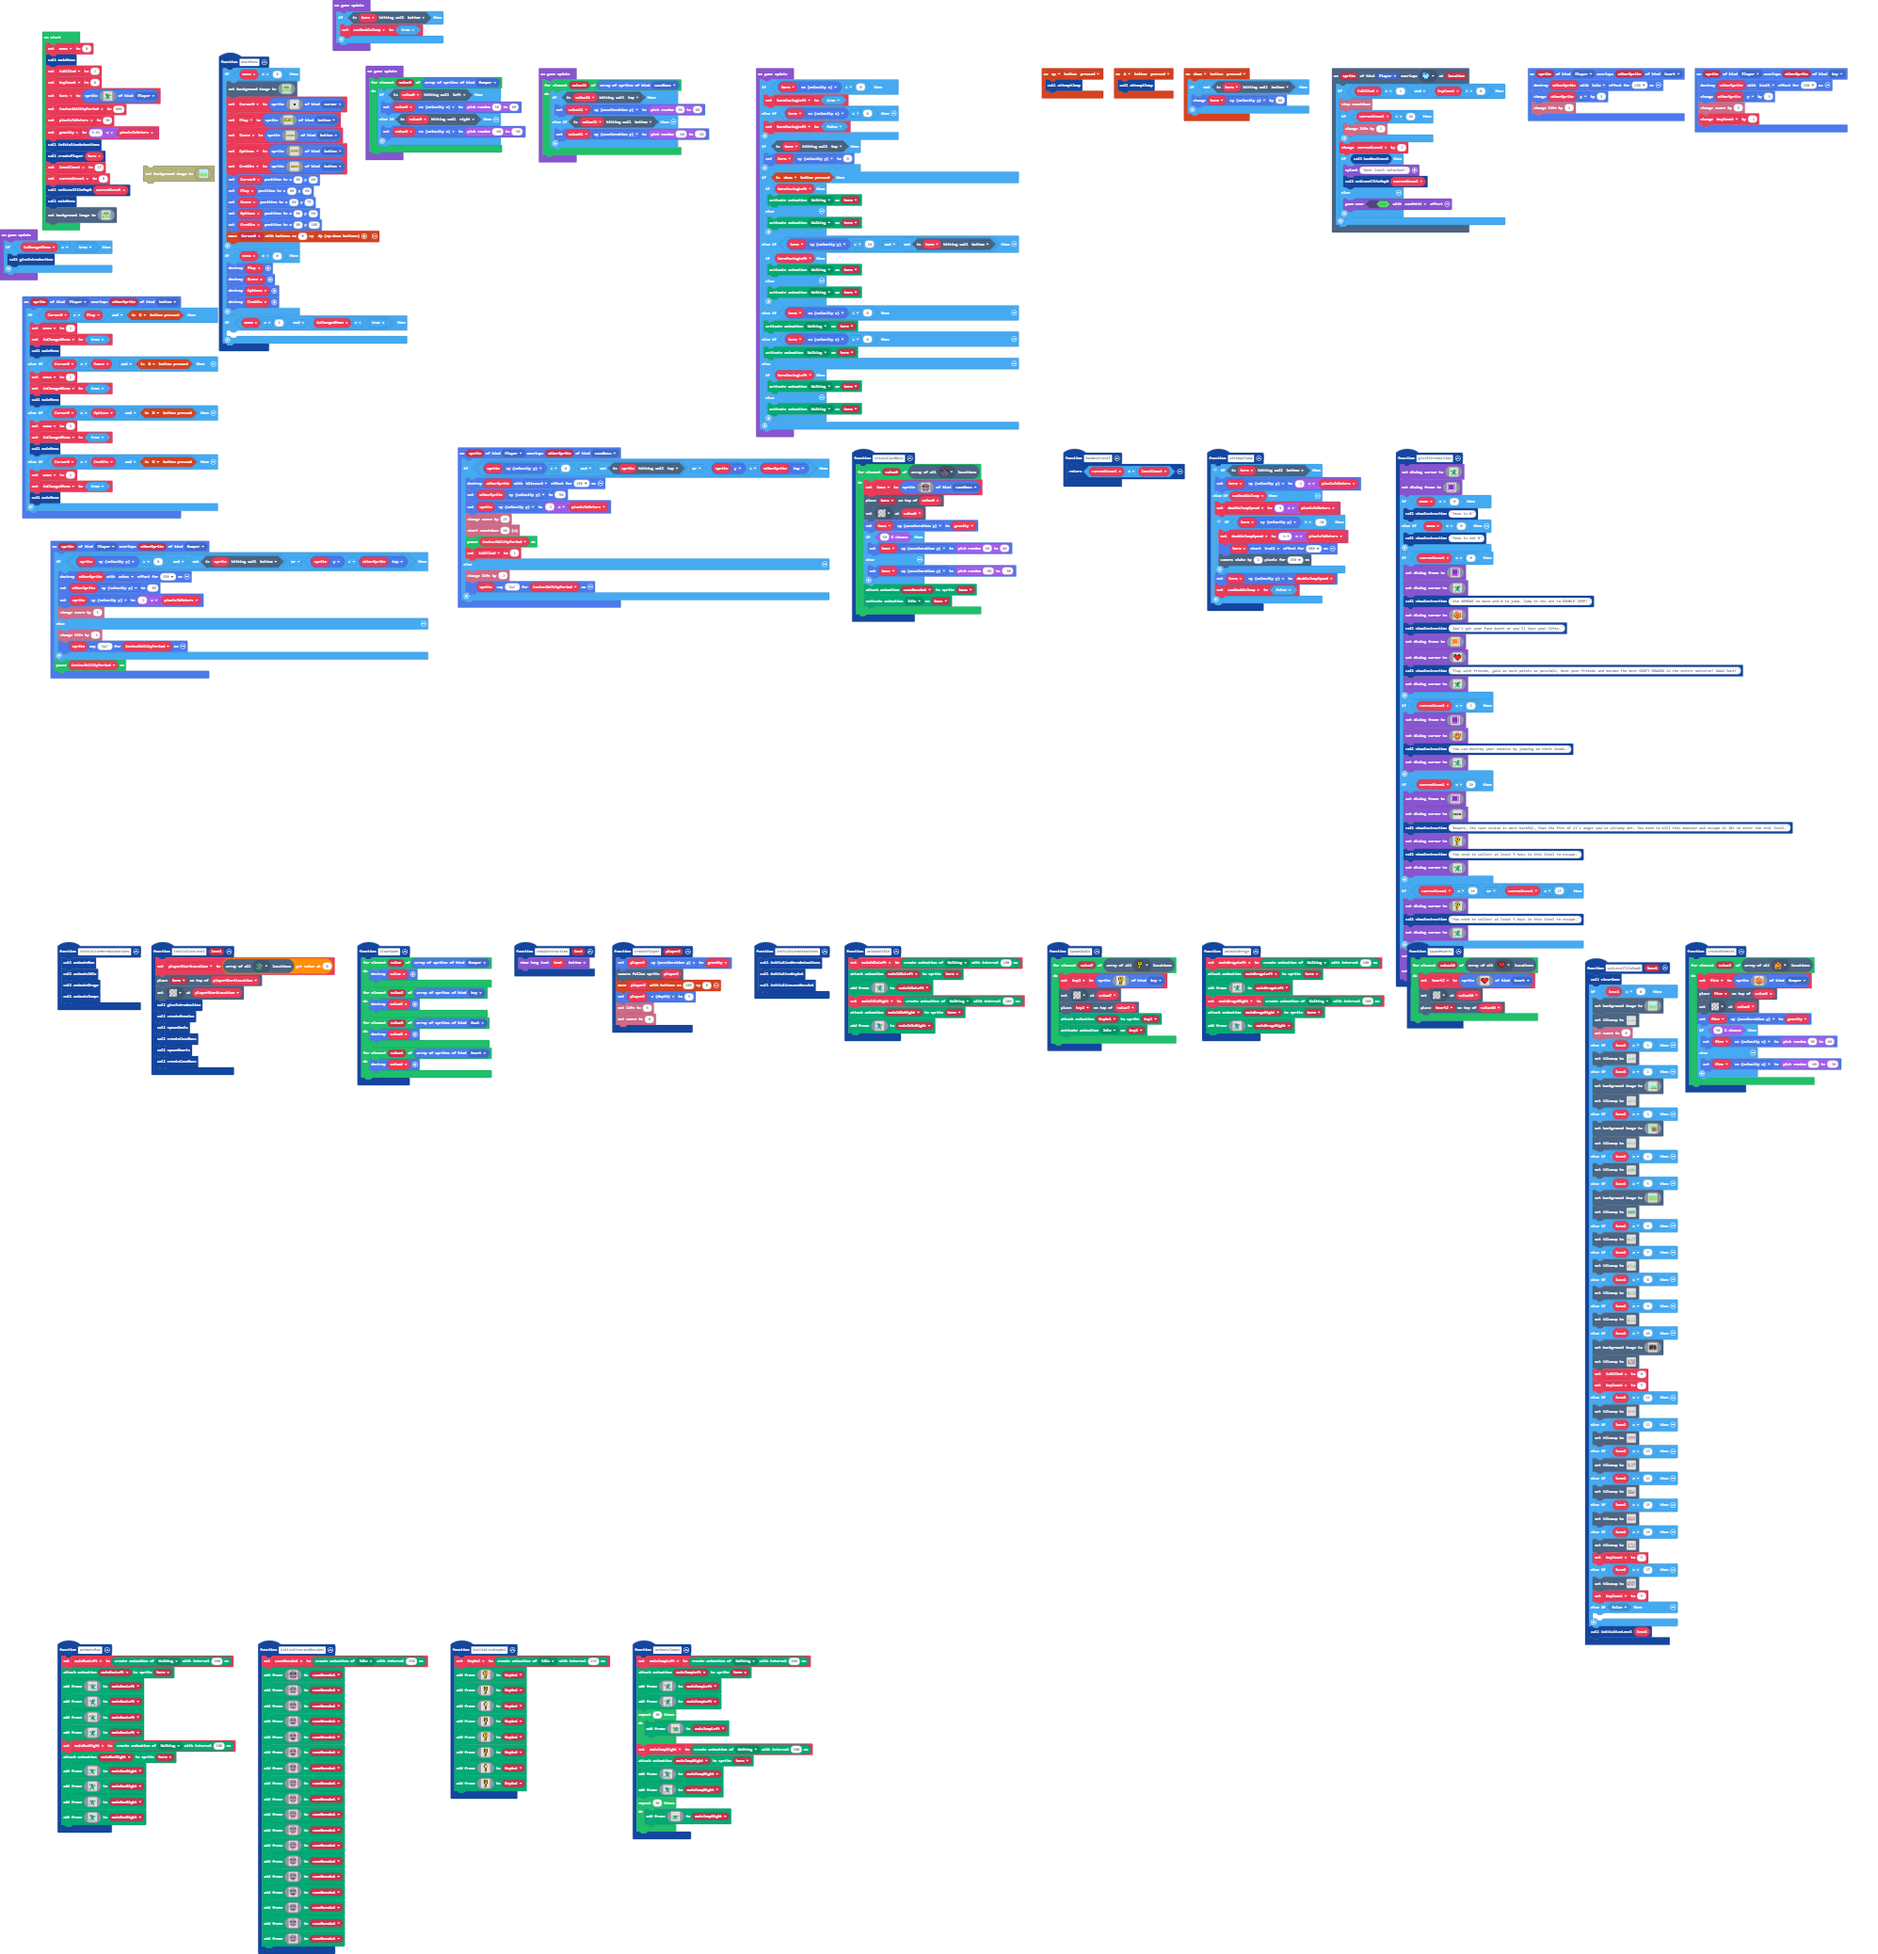
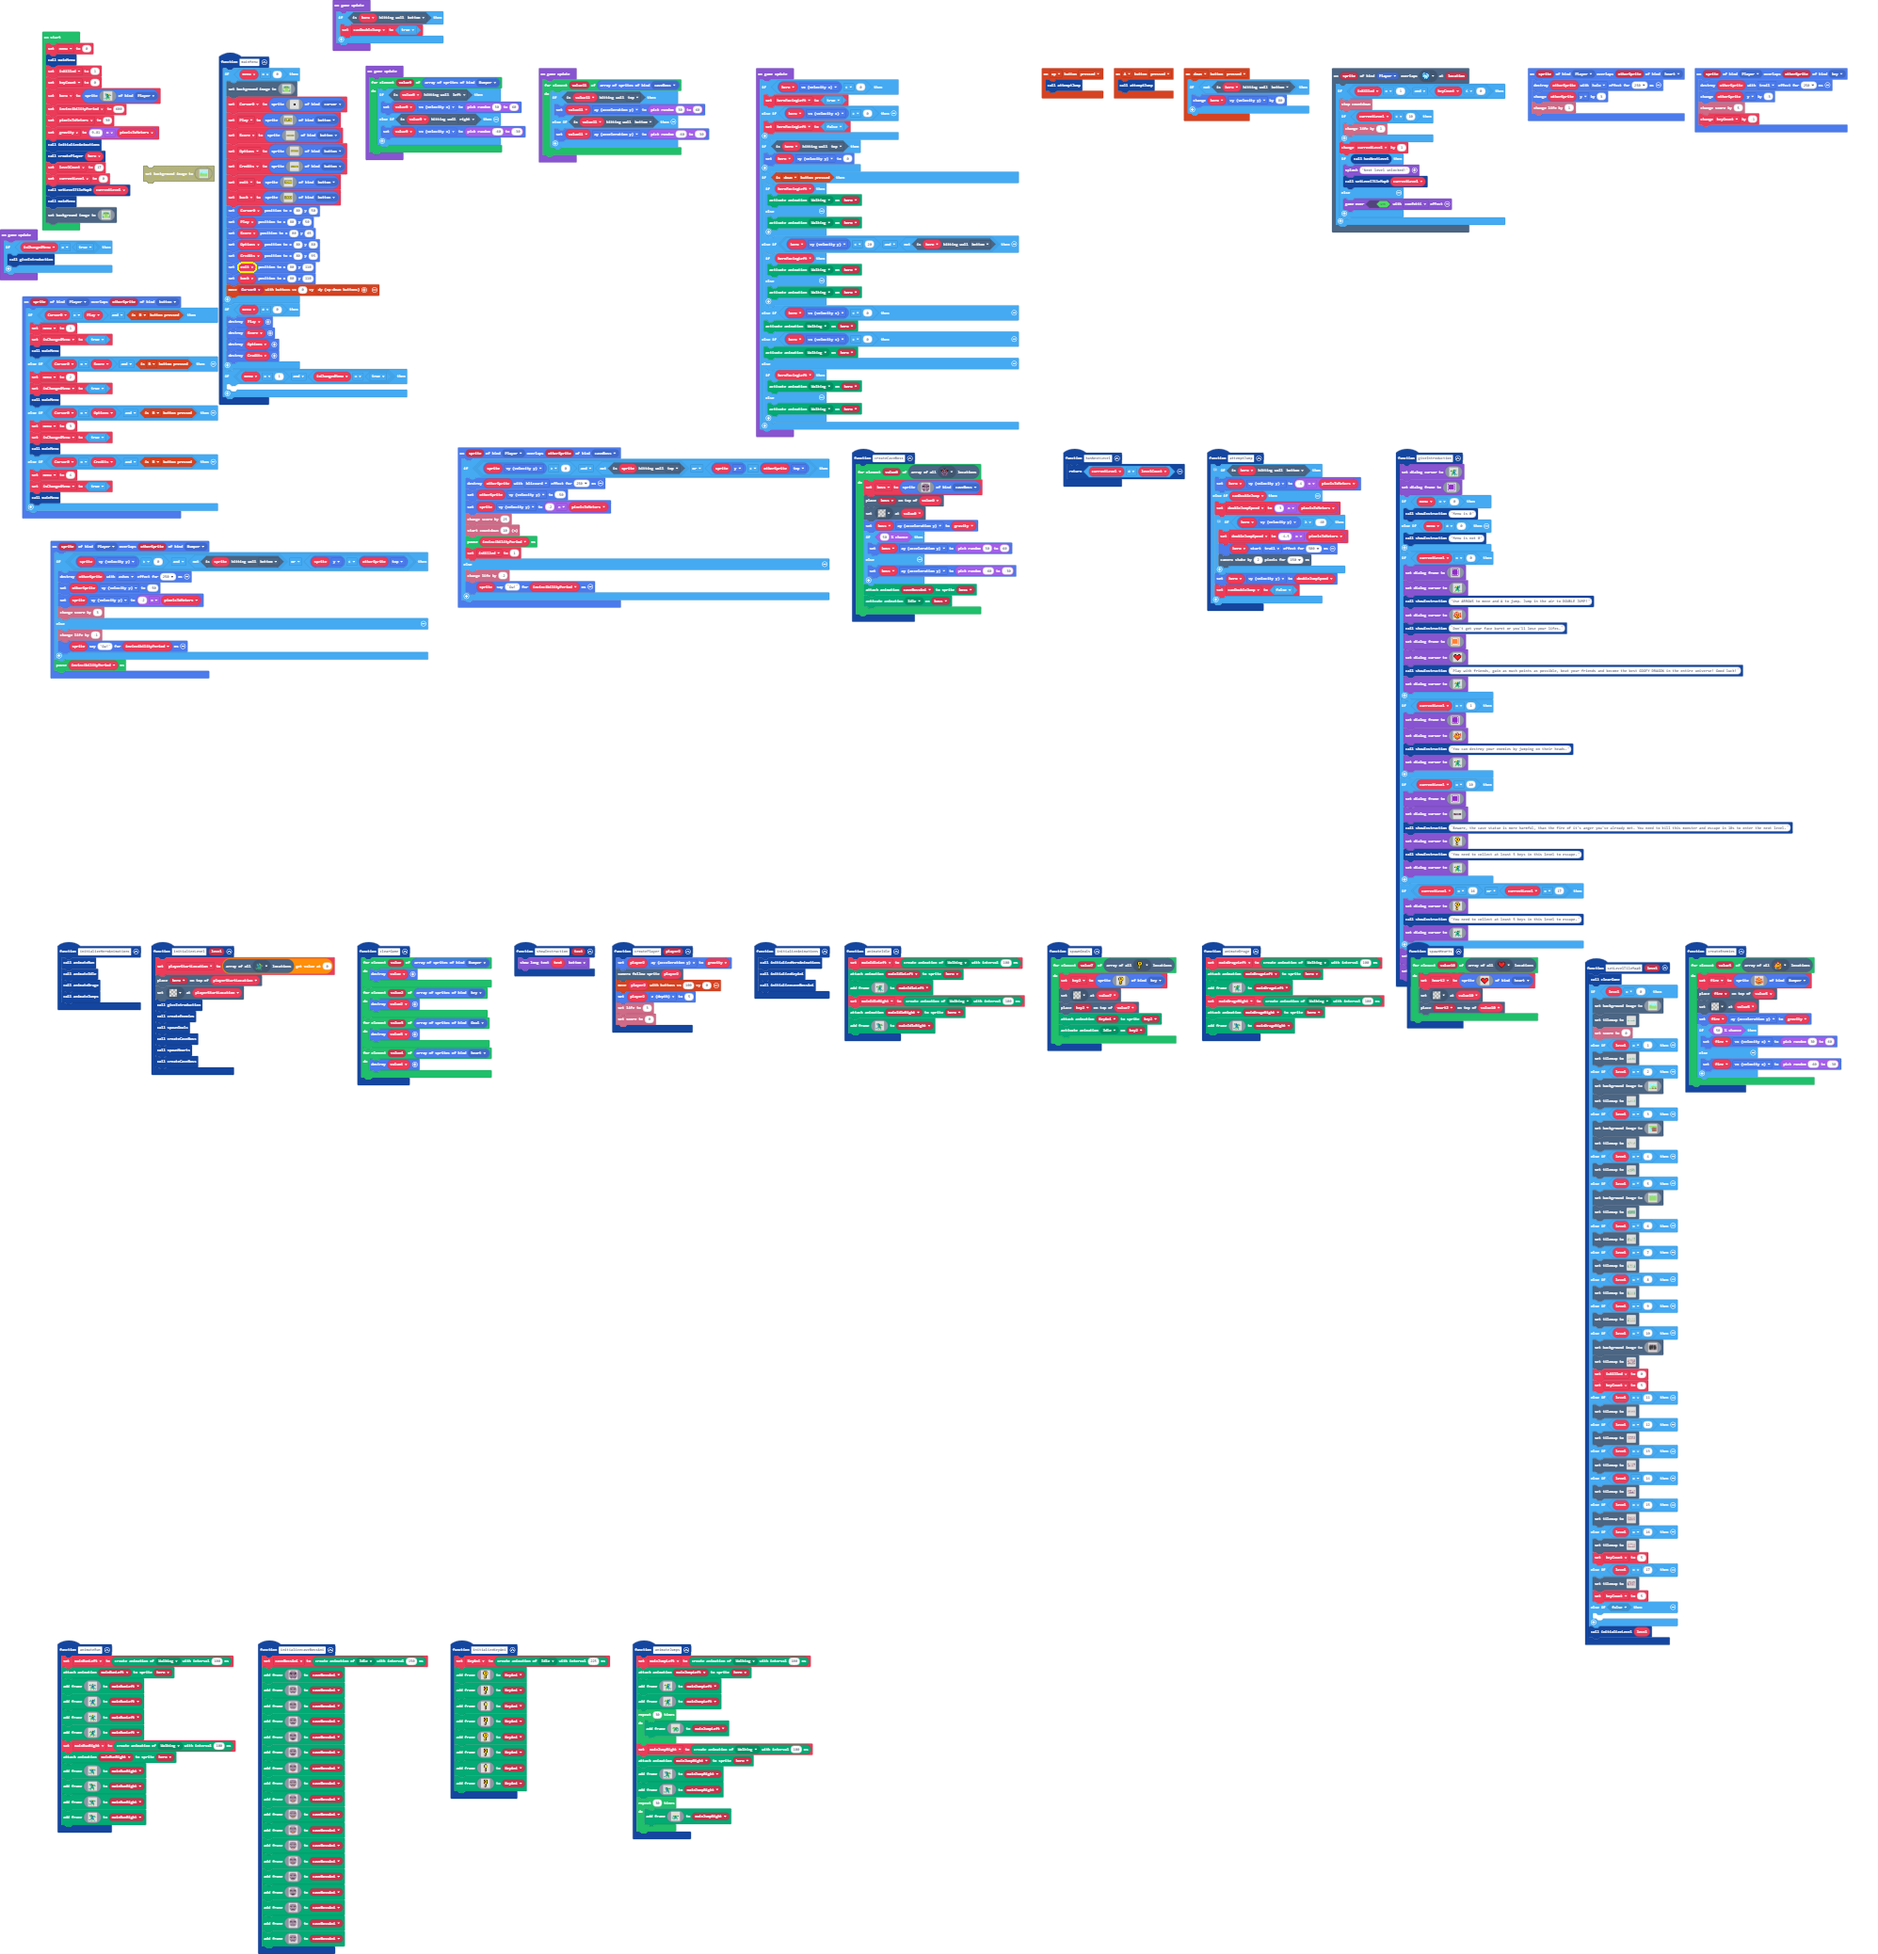
Update main.blocks, main.ts

Changed region(s): [[0.0932, 0.0925, 0.2175, 0.2158]]

diff --git a/main.ts b/main.ts
@@ -363,11 +363,39 @@ function mainMenu () {
             f5555555555555555555555555555555555555555555f
             fffffffffffffffffffffffffffffffffffffffffffff
             `, SpriteKind.button)
-        Cursor0.setPosition(80, 60)
-        Play.setPosition(80, 60)
-        Score.setPosition(80, 75)
-        Options.setPosition(80, 90)
-        Credits.setPosition(80, 105)
+        exit = sprites.create(img`
+            f f f f f f f f f f f f f f f f f f f f f f f f f f f 
+            f 5 5 5 5 5 5 5 5 5 5 5 5 5 5 5 5 5 5 5 5 5 5 5 5 5 f 
+            f 5 f f f f f 5 f 5 5 5 f 5 f f f f f 5 f f f f f 5 f 
+            f 5 f 5 5 5 5 5 f 5 5 5 f 5 5 5 f 5 5 5 5 5 f 5 5 5 f 
+            f 5 f 5 5 5 5 5 5 f 5 f 5 5 5 5 f 5 5 5 5 5 f 5 5 5 f 
+            f 5 f f f 5 5 5 5 5 f 5 5 5 5 5 f 5 5 5 5 5 f 5 5 5 f 
+            f 5 f 5 5 5 5 5 5 f 5 f 5 5 5 5 f 5 5 5 5 5 f 5 5 5 f 
+            f 5 f 5 5 5 5 5 f 5 5 5 f 5 5 5 f 5 5 5 5 5 f 5 5 5 f 
+            f 5 f f f f f 5 f 5 5 5 f 5 f f f f f 5 5 5 f 5 5 5 f 
+            f 5 5 5 5 5 5 5 5 5 5 5 5 5 5 5 5 5 5 5 5 5 5 5 5 5 f 
+            f f f f f f f f f f f f f f f f f f f f f f f f f f f 
+            `, SpriteKind.button)
+        back = sprites.create(img`
+            f f f f f f f f f f f f f f f f f f f f f f f f f f f 
+            f 5 5 5 5 5 5 5 5 5 5 5 5 5 5 5 5 5 5 5 5 5 5 5 5 5 f 
+            f 5 f f f f 5 5 5 f f f 5 5 5 f f f 5 5 f 5 5 5 f 5 f 
+            f 5 f 5 5 5 f 5 f 5 5 5 f 5 f 5 5 5 f 5 f 5 5 f 5 5 f 
+            f 5 f 5 5 5 f 5 f 5 5 5 f 5 f 5 5 5 5 5 f 5 f 5 5 5 f 
+            f 5 f f f f 5 5 f 5 5 5 f 5 f 5 5 5 5 5 f f 5 5 5 5 f 
+            f 5 f 5 5 5 f 5 f f f f f 5 f 5 5 5 5 5 f 5 f 5 5 5 f 
+            f 5 f 5 5 5 f 5 f 5 5 5 f 5 f 5 5 5 f 5 f 5 5 f 5 5 f 
+            f 5 f f f f 5 5 f 5 5 5 f 5 5 f f f 5 5 f 5 5 5 f 5 f 
+            f 5 5 5 5 5 5 5 5 5 5 5 5 5 5 5 5 5 5 5 5 5 5 5 5 5 f 
+            f f f f f f f f f f f f f f f f f f f f f f f f f f f 
+            `, SpriteKind.button)
+        Cursor0.setPosition(80, 50)
+        Play.setPosition(80, 50)
+        Score.setPosition(80, 65)
+        Options.setPosition(80, 80)
+        Credits.setPosition(80, 95)
+        exit.setPosition(80, 110)
+        back.setPosition(80, 110)
         controller.moveSprite(Cursor0, 0, controller.dy())
     }
     if (menu != 0) {
@@ -2722,6 +2750,8 @@ let canDoubleJump = false
 let mainDrageRight: animation.Animation = null
 let mainDrageLeft: animation.Animation = null
 let isChangedMenu = false
+let back: Sprite = null
+let exit: Sprite = null
 let Credits: Sprite = null
 let Options: Sprite = null
 let Score: Sprite = null
